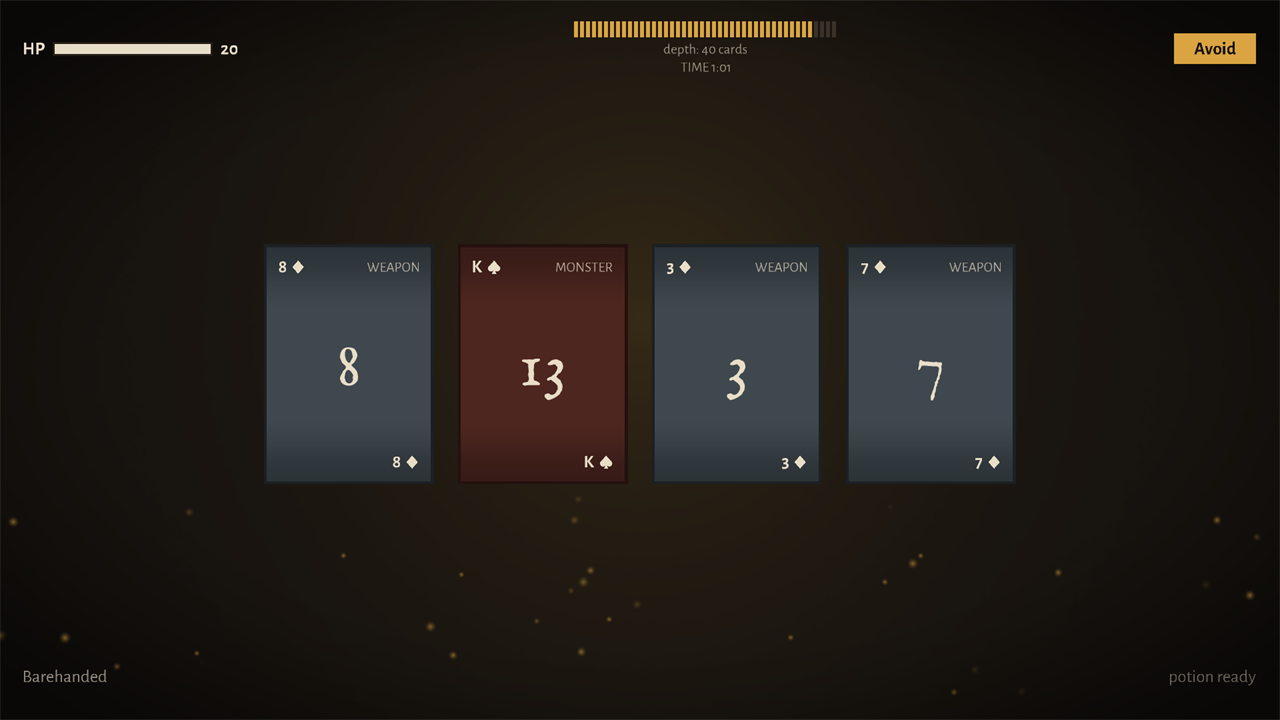
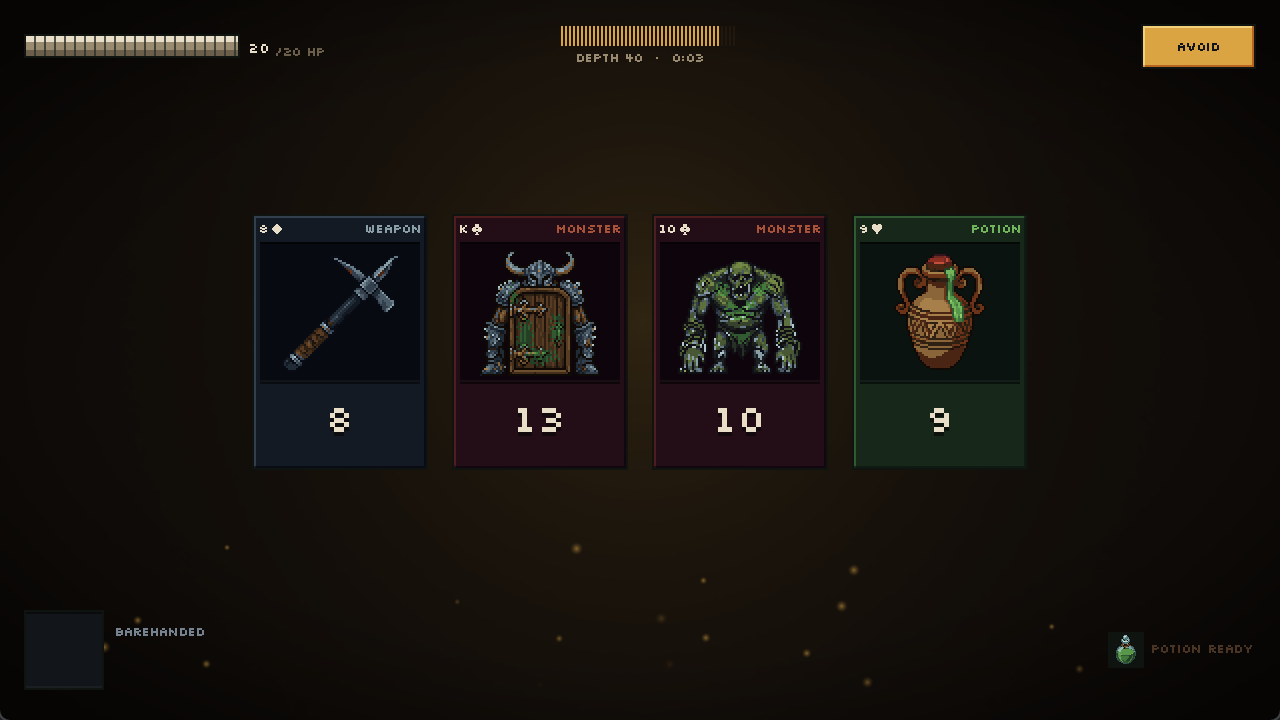
docs: rework the README for 2.0, with screenshots of the game as it is
Version bumped to 2.0.0 - the engine is untouched, so nothing about the
game's behaviour breaks, but every screen is new and "release 2" is what
this is.

All five screenshots were from 5 August, the day 1.0 shipped, and showed
flat coloured tiles: the board, the ledger, trophies, the mode picker and
the title screen as they looked before any art existed. Recaptured from
the current build, plus a sixth of the tutorial, which the old set never
showed at all.

The figures were worse than the images. The README claimed 562 tests in
one section and 531 in another, against a real 599; it credited coverage
to a `Motion` class deleted in the pixel conversion; and its screens
split - 671 pure lines at 97.8%, 2,426 GL lines at 1.2% - predated
roughly forty extractions. Every number in the file has now been measured
rather than carried forward, including one I got wrong while writing it:
31 is the object count, but the sprite count is 44, because each creature
is drawn once per corrupted suit.

The changelog's Unreleased section becomes 2.0.0.

diff --git a/README.md b/README.md
@@ -6,8 +6,8 @@
 [![Java 21](https://img.shields.io/badge/Java-21-e76f00.svg)](https://openjdk.org/projects/jdk/21/)
 [![libGDX](https://img.shields.io/badge/libGDX-1.14-c0392b.svg)](https://libgdx.com/)
 
-A desktop implementation of **Scoundrel**, a single-player roguelike card game — built in Java
-with libGDX, on a rules engine that is pure, headless and tested to 98.7%.
+A desktop implementation of **Scoundrel**, a single-player roguelike card game — hand-drawn
+pixel art over a rules engine that is pure, headless and driven entirely by tests.
 
 Scoundrel is a solitaire dungeon crawl played with a trimmed deck of 44 cards. You descend
 through a dungeon of face-up cards, fighting monsters, swapping weapons and drinking potions,
@@ -16,6 +16,25 @@ risk with the hand the shuffle deals you.
 
 ![The board](docs/images/board.png)
 
+## What's new in 2.0
+
+Release 1 played the whole game in flat coloured tiles. Release 2 is the same engine wearing
+drawn art, and it took every screen with it.
+
+- **31 hand-drawn objects** — 13 creatures, 9 weapons, 9 potions — drawn as **44 base sprites**
+  at 64×64, since every creature exists in both corrupted suits, plus **130 idle frames**. All
+  packed into an atlas at build time. Every pixel sits on a locked 80-colour ramp system; the
+  struck and outlined frames are generated in Java at load rather than shipped.
+- **Every screen redrawn** on the same pixel kit — title, mode select, ledger, trophies, the
+  run-end panel and the tutorial overlay. **Scene2D is gone from the project entirely**, and
+  with it both vector typefaces: Silkscreen is now the only face in the game.
+- **A fixed 1280×720 design space**, rendered once to an offscreen surface and scaled to the
+  window in one step, on a viewport that snaps to half-scales so pixel art never lands on a
+  fractional grid.
+- **Motion on a frame grid.** Nothing tweens: effects hold at 12 fps and idles at 6, floored in
+  one place. The death cinematic is the slowest thing in the game on purpose — every other
+  effect was cut to pay for it.
+
 ## Features
 
 - **The complete ruleset** — room dealing, avoiding, armed and bare-handed combat, weapon
@@ -23,12 +42,13 @@ risk with the hand the shuffle deals you.
   cap-plus-final-potion edge case.
 - **Three difficulty modes** — Standard, Relentless and Frail, built as alternate rulesets rather
   than branches in the engine.
-- **Guided tutorial** — a scripted first run that teaches every rule, offered once on first
+- **Guided tutorial** — a scripted 22-step run that teaches every rule, offered once on first
   launch and replayable afterwards.
 - **Persistent progression** — high scores and lifetime statistics across every finished run,
   ranked per difficulty, with ten achievements derived from the engine's event stream.
-- **Animated presentation** — cards deal in and sweep away, per-card resolve effects, HP pulses,
-  a death cinematic, and a procedural torchlit backdrop with live flicker and drifting embers.
+- **Drawn presentation** — sprites that breathe on a shared clock, cards that deal in and sweep
+  away, per-card resolve effects, a death cinematic, and a procedural torchlit backdrop with
+  live flicker and drifting embers.
 - **Ships as a real application** — self-contained Windows and macOS builds that need no Java
   installed, borderless fullscreen with an F11 toggle, and crash reports written to disk.
 
@@ -79,20 +99,26 @@ Three difficulty modes ship: **Standard**, **Relentless** (avoiding is forbidden
 
 <table>
   <tr>
+    <td width="50%"><img src="docs/images/tutorial.png" alt="The guided tutorial"></td>
     <td width="50%"><img src="docs/images/modes.png" alt="Mode select"></td>
-    <td width="50%"><img src="docs/images/records.png" alt="The Ledger"></td>
   </tr>
   <tr>
+    <td align="center"><em>A scripted run that teaches every rule, corner ticks on the card it means</em></td>
     <td align="center"><em>Three rulesets, no engine changes</em></td>
-    <td align="center"><em>Persisted high scores and lifetime totals</em></td>
   </tr>
   <tr>
+    <td width="50%"><img src="docs/images/records.png" alt="The Ledger"></td>
     <td width="50%"><img src="docs/images/trophies.png" alt="Trophies"></td>
-    <td width="50%"><img src="docs/images/title.png" alt="Title screen"></td>
   </tr>
   <tr>
+    <td align="center"><em>Persisted high scores and lifetime totals, ranked per mode</em></td>
     <td align="center"><em>Achievements derived from the engine's event stream</em></td>
-    <td align="center"><em>Procedural torchlit backdrop</em></td>
+  </tr>
+  <tr>
+    <td colspan="2"><img src="docs/images/title.png" alt="Title screen"></td>
+  </tr>
+  <tr>
+    <td colspan="2" align="center"><em>The Debt, idling at ×3 — the only sprite on any menu</em></td>
   </tr>
 </table>
 
@@ -156,17 +182,24 @@ Resolving dispatches to that effect rather than switching on suit, so a new card
 definition, not a new `case` in the engine.
 
 The UI layer only draws state and turns input into moves. Where a screen grew logic that could be
-tested — text formatting, hit regions, easing curves, resolve-effect selection — it was extracted
-into a small pure class (`Motion`, `CardHitRegions`, `ClockText`, `FeedText`, `Labels`,
-`ResolveEffect`, `TorchFlicker`, `Embers`) with a characterization test written *before* the move,
-leaving the screens as thin views.
+tested — text formatting, hit regions, frame timelines, which clock a card is on — it was extracted
+into a small pure class (`RoomMotion`, `CardHitRegions`, `ClockText`, `FeedText`, `Labels`,
+`ResolveEffect`, `TorchFlicker`, `Embers`, `Frames`, `ButtonRow`) with a characterization test
+written *before* the move, leaving the screens as thin views. Where a helper needs a font, the
+measuring is passed in as a function so the arithmetic stays headless.
+
+The five navigable screens share one `PixelScreen` base whose `render` is **final**. That is not
+tidiness: activating a menu target navigates, navigating disposes the screen, and drawing one more
+frame afterwards reads freed native memory and kills the JVM rather than throwing. The guard sits
+above a `drawContent` a subclass cannot reach until the check has passed, so the mistake stopped
+being expressible.
 
 Full design notes, including the locked edge-case decisions and Mermaid diagrams, are in
 [`docs/design.md`](docs/design.md); the UI layer is documented in [`docs/ui.md`](docs/ui.md).
 
 ## Testing
 
-562 tests, written test-first for all pure logic. `./gradlew core:check` runs them and enforces a
+599 tests, written test-first for all pure logic. `./gradlew core:check` runs them and enforces a
 JaCoCo gate of **90% line / 75% branch on every pure package** — the build fails below it.
 
 > Every figure in this section is a measurement, not a claim, and the branch moves fast enough that
@@ -177,7 +210,7 @@ JaCoCo gate of **90% line / 75% branch on every pure package** — the build fai
 | Package | Line | Branch |
 |---|---|---|
 | `model` | 100.0% | 100.0% |
-| `rules` | 99.0% | 93.1% |
+| `rules` | 99.1% | 93.1% |
 | `runs` | 98.7% | 96.3% |
 | `achievements` | 98.3% | 97.5% |
 | `tutorial` | 97.5% | 86.4% |
@@ -191,14 +224,14 @@ the build actually holds itself to.
 That said, the number is not meaningless as a *progress* signal, because the pure helpers extracted
 out of the GL classes stay in the same package. `screens` splits cleanly in two:
 
-| Inside `screens` | Lines | Line coverage |
-|---|---|---|
-| extracted pure helpers (`PressGesture`, `LedgerRow`, `TextWrap`, `ScreenArt`, `Feed`, …) | 671 | 97.8% |
-| GL classes (`GameScreen`, `BoardView`, `Theme`, the screens themselves) | 2,426 | 1.2% |
+| Inside `screens` | Classes | Lines | Line coverage |
+|---|---|---|---|
+| pure helpers, no libGDX import (`PressGesture`, `LedgerRow`, `TextWrap`, `ScreenArt`, `Frames`, `UiPalette`, …) | 43 | 819 | 96.7% |
+| GL-bound (`GameScreen`, `BoardView`, `PixelScreen`, `Theme`, the screens themselves) | 19 | 2,229 | 0.3% |
 
-The package reads 22.1% overall, up from 8% at v1.0.0 — that rise is the extraction, not new tests
-against rendering. The ratio is the useful reading: it says how much of the UI layer has stopped
-being untestable.
+The package reads 26.2% overall, and that number rises by *extraction* rather than by new tests
+against rendering — 43 of its 62 classes now have no libGDX import at all. The ratio is the useful
+reading: it says how much of the UI layer has stopped being untestable.
 
 The engine's determinism is used deliberately: the tutorial's scripted run, for instance, is proven
 by playing every one of its moves through the real engine in a test and asserting the narration's
@@ -208,7 +241,7 @@ the rules.
 ## Development
 
 ```sh
-./gradlew core:test        # 531 tests, headless, ~1s of execution
+./gradlew core:test        # 599 tests, headless, ~1s of execution
 ./gradlew core:check       # tests + the JaCoCo gate; HTML report at
                            #   core/build/reports/jacoco/test/html/
 ./gradlew lwjgl3:run       # play the current working tree
@@ -232,14 +265,25 @@ kept in sync with the code rather than written once.
 
 ## Roadmap
 
+Shipped in **1.0** — the game, complete and playable:
+
 - [x] Pure model and rules engine — dealing, avoiding, combat, degradation, scoring
-- [x] Immediate-mode UI, card motion, per-card resolve effects, death cinematic
+- [x] Card motion, per-card resolve effects, death cinematic
 - [x] Procedural torchlit atmosphere — glow, flicker, drifting embers
 - [x] Persisted high scores, lifetime statistics, achievements
 - [x] Three difficulty modes as alternate rulesets
 - [x] Guided tutorial that teaches every rule, including scoring
 - [x] CI, coverage gate, self-contained desktop builds
-- [x] Pixel-art creature sprites, weapons and potions
+
+Shipped in **2.0** — the art, and everything it dragged with it:
+
+- [x] Pixel-art creatures, weapons and potions, with idle animation
+- [x] Every screen redrawn on the pixel kit; Scene2D and both vector faces removed
+- [x] A fixed design space rendered through an offscreen surface, on a snapping viewport
+- [x] One shared screen frame, and a palette rule the build enforces
+
+Not planned, and deliberately so: mid-game save/resume, a replay format, online scores. A run is
+a single sitting, which is the shape of the game.
 
 ## Author
 

diff --git a/CHANGELOG.md b/CHANGELOG.md
@@ -5,7 +5,10 @@ All notable changes to this project are documented here.
 The format follows [Keep a Changelog](https://keepachangelog.com/en/1.1.0/), and this project
 adheres to [Semantic Versioning](https://semver.org/spec/v2.0.0.html).
 
-## [Unreleased]
+## [2.0.0] - 2026-08-14
+
+The art release. The engine is unchanged — every rule, score and edge case behaves exactly as it
+did in 1.0 — and everything you look at is new.
 
 ### Added
 - Pixel-art creature, weapon and potion sprites, packed into a texture atlas at build time.
@@ -112,5 +115,6 @@ First complete release: the full base game, playable start to finish.
 - Cards are drawn as typed tiles with rank and suit. Illustrated sprites are in progress.
 - There is no mid-game save or resume — a run is a single sitting.
 
-[Unreleased]: https://github.com/tomerba6/scoundrel-game/compare/v1.0.0...HEAD
+[Unreleased]: https://github.com/tomerba6/scoundrel-game/compare/v2.0.0...HEAD
+[2.0.0]: https://github.com/tomerba6/scoundrel-game/compare/v1.0.0...v2.0.0
 [1.0.0]: https://github.com/tomerba6/scoundrel-game/releases/tag/v1.0.0
